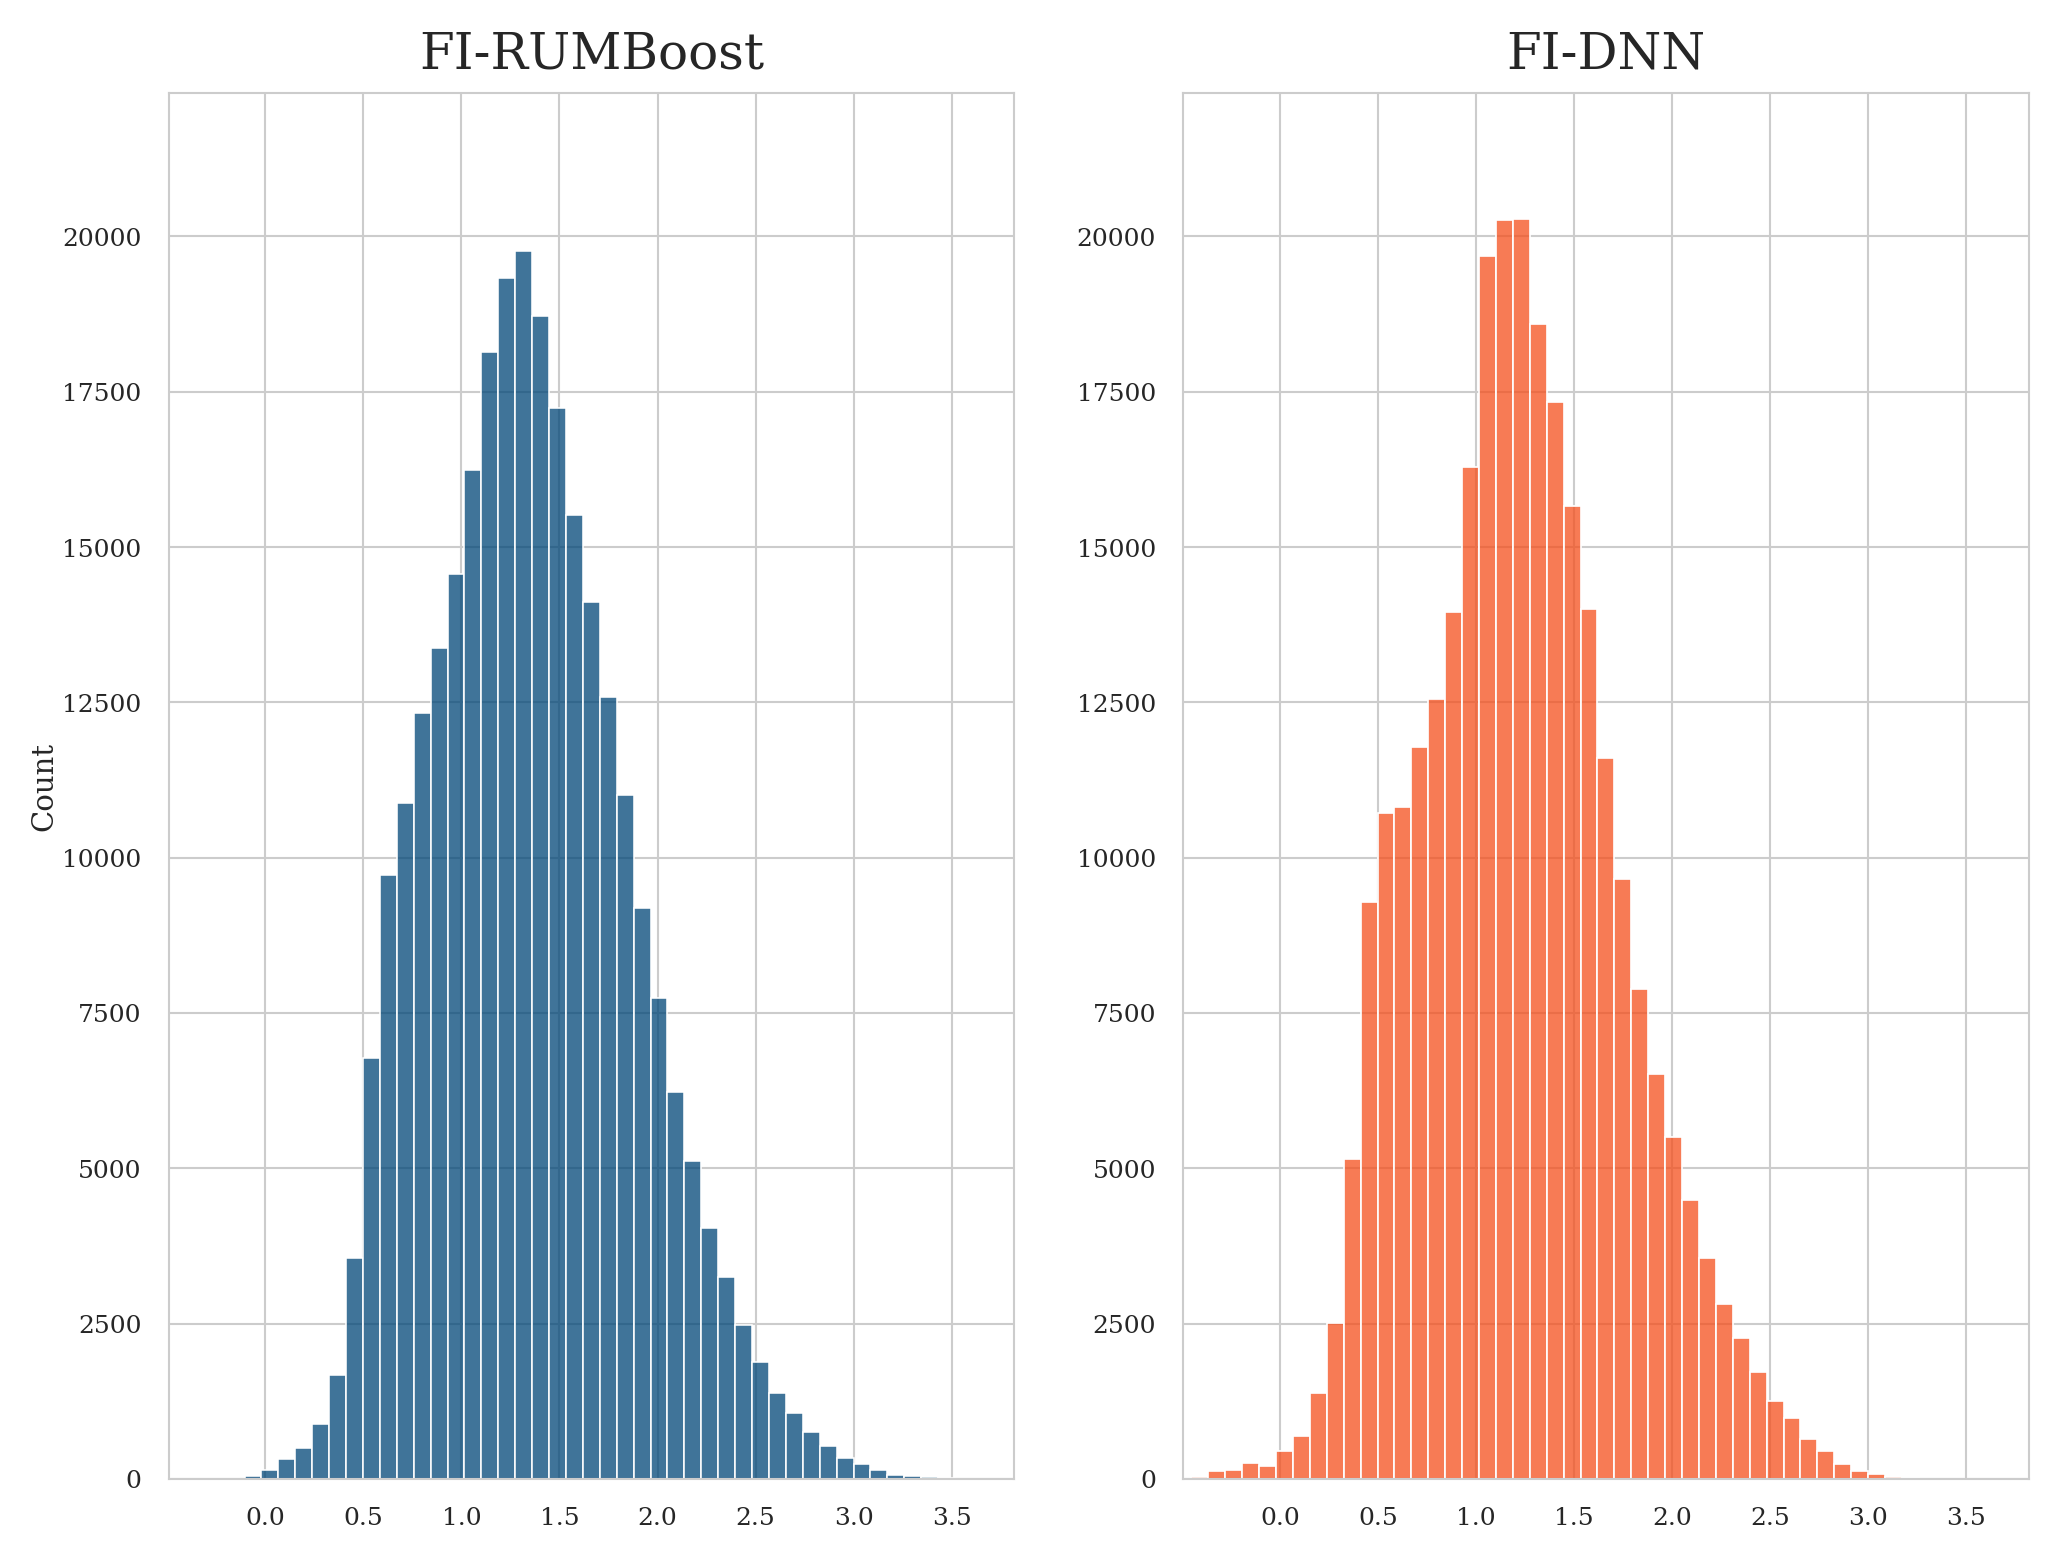
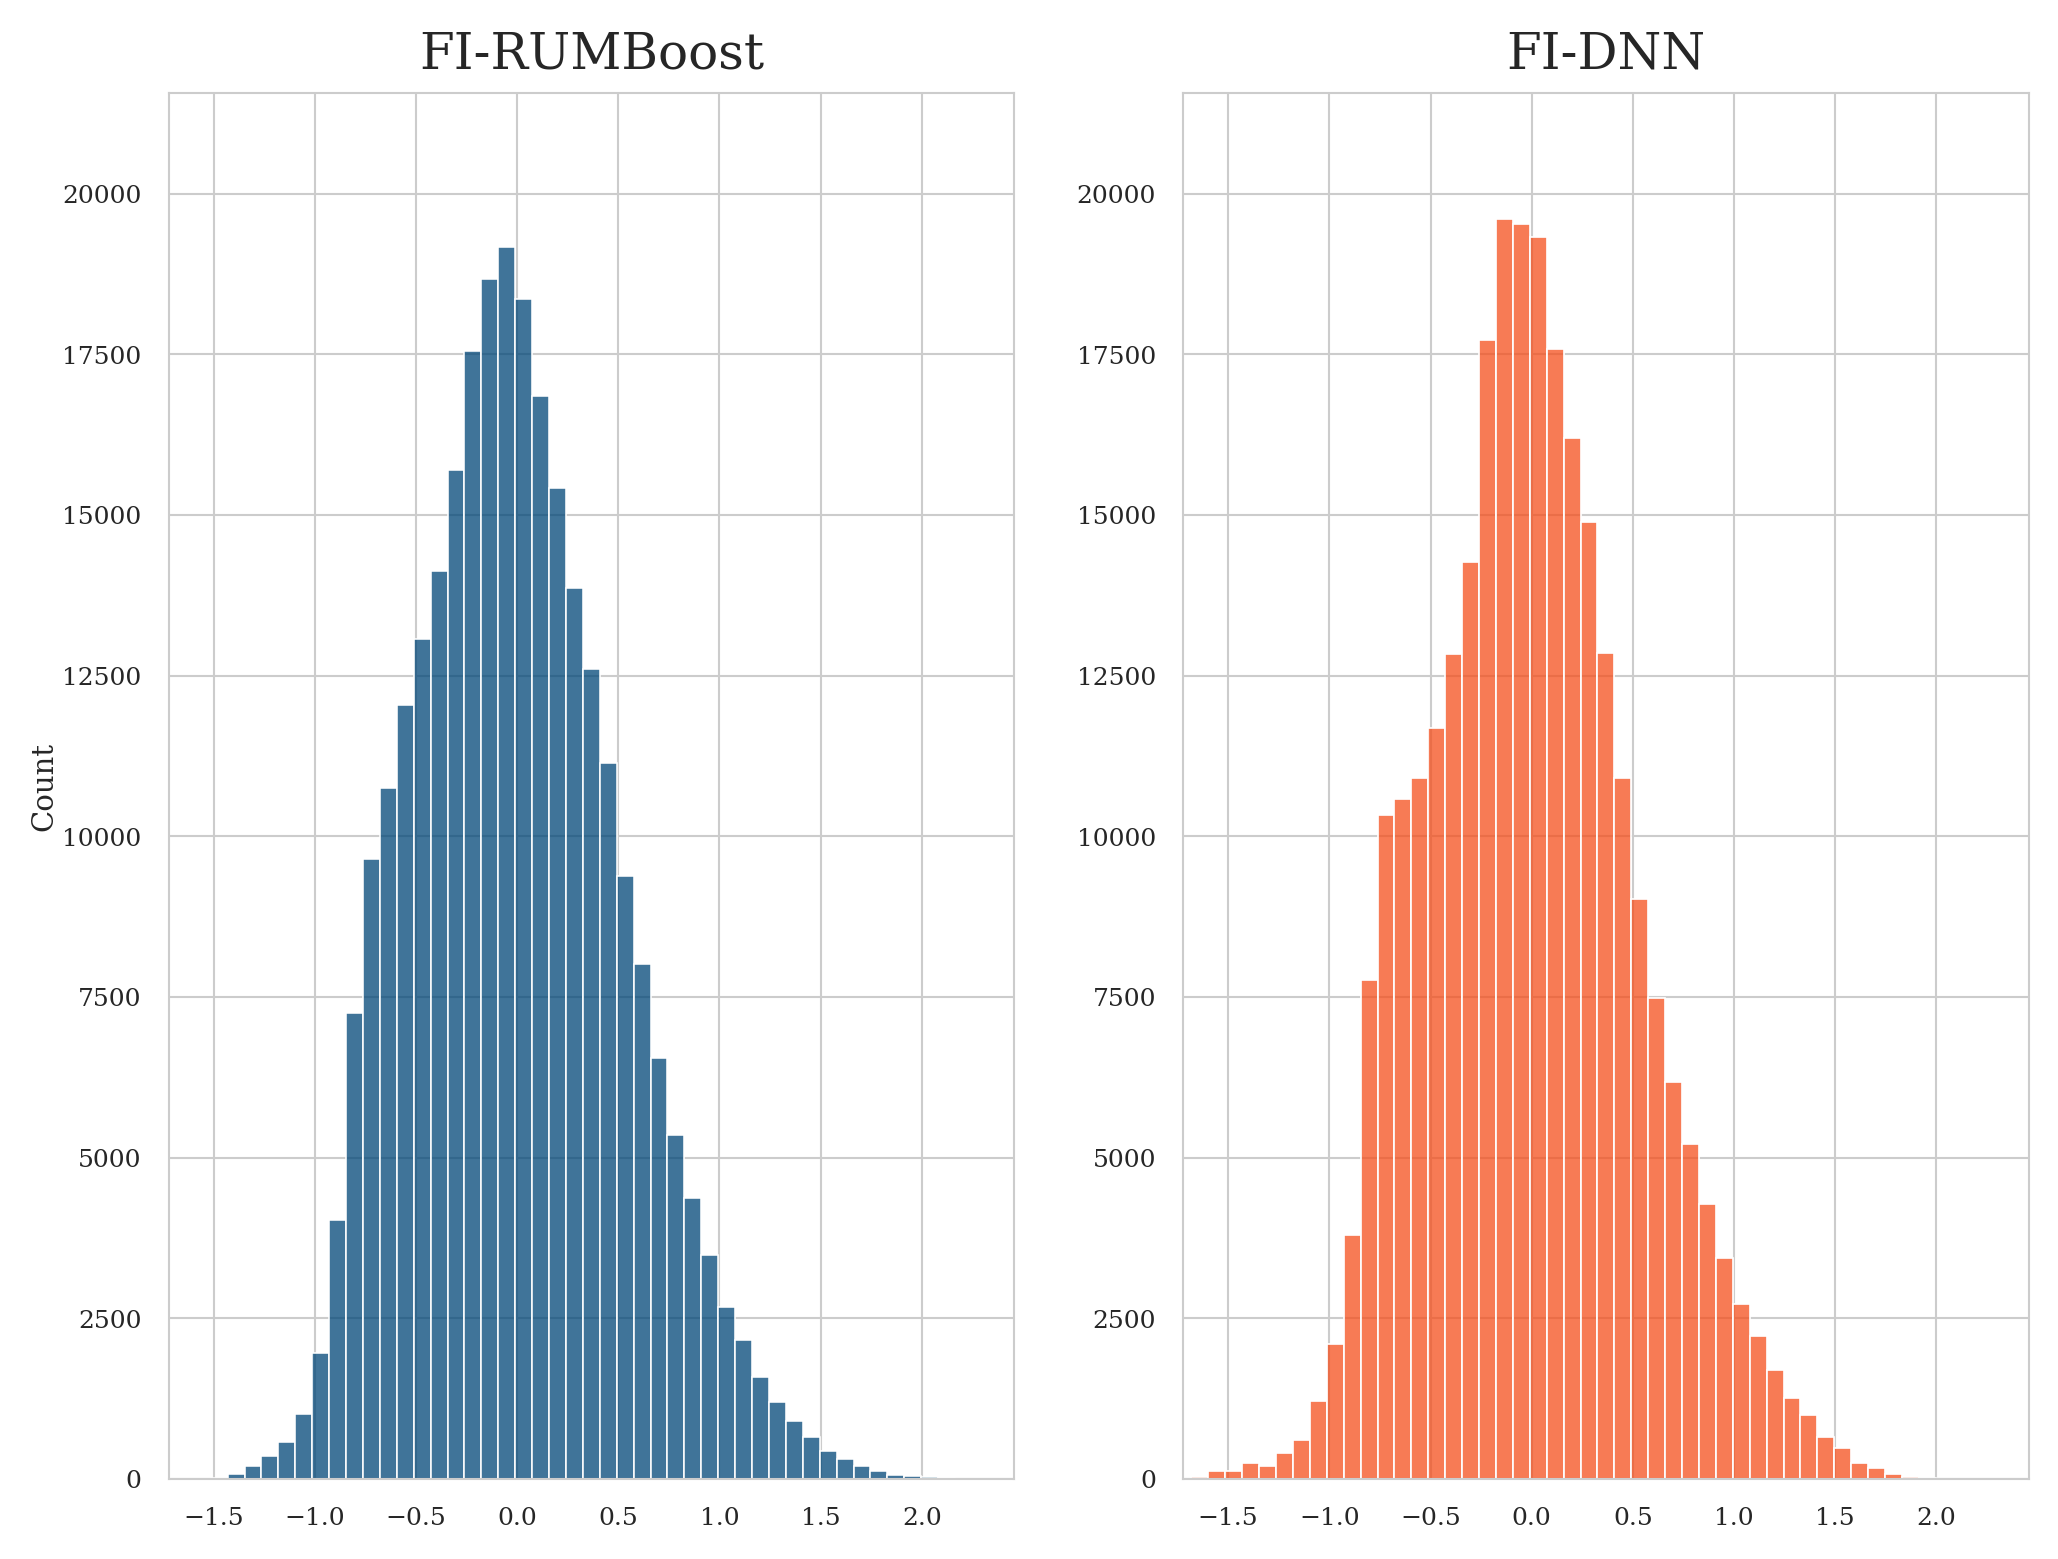
itnercept plots with zero-mean

diff --git a/src/plotter.py b/src/plotter.py
@@ -369,7 +369,7 @@ def plot_ind_spec_constant(
                 first_threshold = (
                     tastenet.model.ordinal_module.coral_bias[0].detach().cpu().numpy()
                 )
-                y_tastenet[:, -1] = y_tastenet[:, -1] + first_threshold
+                y_tastenet[:, -1] = y_tastenet[:, -1] - y_tastenet[:,-1].mean(axis=0)
 
     colors = ["#004577", "#f54f1c","#41def7", "#ff9500"]
 
@@ -399,7 +399,7 @@ def plot_ind_spec_constant(
                 and j >= num_plots - num_classes
             ):
                 first_threshold = rumboost.model.thresholds[0]
-                y_rumboost = y_rumboost - first_threshold
+                y_rumboost = y_rumboost - y_rumboost.mean(axis=0)
             min_val = y_rumboost.min()
             max_val = y_rumboost.max()
         if "TasteNet" in all_models:
@@ -520,9 +520,297 @@ def plot_ind_spec_constant(
         # plt.show()
 
 
+def additional_plots_for(
+    alt_spec_features: List = alt_spec_features,
+    all_models: Dict = all_models,
+    path_to_data: str = PATH_TO_DATA,
+    path_to_data_train: str = PATH_TO_DATA_TRAIN,
+    save_fig: bool = False,
+    feature_to_highlight: str = None,
+    functional_params: bool = True,
+    functional_intercept: bool = True,
+    dataset: str = "SwissMetro",
+):
+    """
+    Plot the individual-specific constant for the models.
+    The model needs to be trained with functional parameters or functional intercept.
+
+    Parameters
+    ----------
+    alt_spec_features : List
+        List of alternative-specific features. They must be in the same order as for the training.
+    all_models : Dict
+        Dictionary of all models.
+    path_to_data : str
+        Path to the data folder.
+    path_to_data_train : str
+        Path to the training data folder.
+    save_fig : bool
+        Whether to save the figure or not.
+    feature_to_highlight : str
+        Feature to highlight in the plot. If None, no feature is highlighted.
+    functional_params : bool
+        If the model is trained with functional parameters.
+    functional_intercept : bool
+        If the model is trained with functional intercept.
+    dataset : str
+        Dataset to use. Default is "SwissMetro".
+    """
+
+    # Plot the features
+    tex_fonts = {
+        # Use LaTeX to write all text
+        # "text.usetex": True,
+        # "font.family": "serif",
+        # "font.serif": "Computer Modern Roman",
+        # Use 14pt font in plots, to match 10pt font in document
+        "axes.labelsize": 7,
+        "axes.linewidth": 0.5,
+        "axes.labelpad": 1,
+        "font.size": 7,
+        # Make the legend/label fonts a little smaller
+        "legend.fontsize": 6,
+        "legend.fancybox": False,
+        "legend.edgecolor": "inherit",
+        "legend.borderaxespad": 0.4,
+        "legend.borderpad": 0.4,
+        "xtick.labelsize": 6,
+        "ytick.labelsize": 6,
+        "xtick.major.pad": 0.5,
+        "ytick.major.pad": 0.5,
+        "grid.linewidth": 0.5,
+        "lines.linewidth": 0.8,
+    }
+    sns.set_theme(font_scale=1, rc=tex_fonts)
+    # sns.set_context(tex_fonts)
+    sns.set_style("whitegrid")
+    plt.rcParams.update(
+        {
+            # "text.usetex": True,
+            "font.family": "serif",
+            # "font.sans-serif": "Computer Modern Roman",
+        }
+    )
+
+    if dataset == "SwissMetro":
+        df = pkl_to_df(path_to_data)
+        df_train = pkl_to_df(path_to_data_train)
+
+        socio_demo_chars = [
+            col
+            for col in df.columns
+            if col not in alt_spec_features and col not in ["CHOICE"]
+        ]
+    elif dataset == "LPMC":
+        df, _, _ = load_preprocess_LPMC(path_to_data)
+        df_train = df
+        socio_demo_chars = [
+            col
+            for col in df.columns
+            if col not in alt_spec_features and col not in ["choice", "household_id"]
+        ]
+    else:
+        df = pd.read_csv(path_to_data)
+        df_train = pd.read_csv(path_to_data_train)
+
+        socio_demo_chars = [
+            col
+            for col in df.columns
+            if col not in alt_spec_features
+            and col not in ["mergeid", "hhid", "coupleid", "depression_scale"]
+        ]
+
+    scaler = MinMaxScaler()
+    df_train[socio_demo_chars] = scaler.fit_transform(df_train[socio_demo_chars])
+    df[socio_demo_chars] = scaler.transform(df[socio_demo_chars])
+
+    num_classes = 1 if dataset == "easySHARE" else 3 if dataset == "SwissMetro" else 4
+
+    num_plots = (
+        functional_params * len(alt_spec_features) + functional_intercept * num_classes
+    )
+    if num_plots == 0:
+        raise ValueError(
+            "The model needs to be trained with functional parameters or functional intercept."
+        )
+    # Load the models
+    for model in all_models.keys():
+        if model == "RUMBoost":
+            model_path = f"results/{dataset}/{model}/model_fi{functional_intercept}_fp{functional_params}.json"
+            rumboost = all_models[model]()
+            rumboost.load_model(model_path)
+            rumboost_predictor = rumboost.model.boosters[-num_plots:]
+
+        elif model == "TasteNet":
+            model_path = f"results/{dataset}/{model}/model_fi{functional_intercept}_fp{functional_params}.pth"
+            tastenet = all_models[model]()
+            tastenet.load_model(path=model_path)
+            tastenet_predictor = tastenet.model.params_module
+            # already computing the functional values as they are outputted all at once
+            sdc_tensor = (
+                torch.from_numpy(df[socio_demo_chars].values)
+                .to(torch.device("cuda"))
+                .to(torch.float32)
+            )
+            y_tastenet = tastenet_predictor(sdc_tensor).detach().cpu().numpy().squeeze()
+            if not functional_params:
+                y_tastenet = y_tastenet.reshape(-1, num_classes)
+            if dataset == "easySHARE" and functional_intercept:
+                first_threshold = (
+                    tastenet.model.ordinal_module.coral_bias[0].detach().cpu().numpy()
+                )
+                y_tastenet[:, -1] = y_tastenet[:, -1] - y_tastenet[:,-1].mean(axis=0)
+
+    colors = ["#004577", "#f54f1c","#41def7", "#ff9500"]
+
+    for j in range(num_plots):
+        fig, axes = plt.subplots(1, 2, figsize=(8, 6), dpi=300)
+        if functional_intercept:
+            if j < num_plots - num_classes:
+                x_max = df[[alt_spec_features[j]]].max().values
+            else:
+                x_max = 1
+        else:
+            x_max = df[[alt_spec_features[j]]].max().values
+        if "RUMBoost" in all_models:
+            y_rumboost = rumboost_predictor[j].predict(df[socio_demo_chars]) / x_max
+            if dataset == "SwissMetro" and functional_intercept:
+                if j != 6 and j < num_plots - num_classes:
+                    y_rumboost = np.minimum(y_rumboost, 0)
+            elif dataset == "SwissMetro" and j != 6:
+                y_rumboost = np.minimum(y_rumboost, 0)
+
+            if dataset == "LPMC" and functional_params and j in lpmc_monotonic_constraints:
+                y_rumboost = np.minimum(y_rumboost, 0)
+
+            if (
+                dataset == "easySHARE"
+                and functional_intercept
+                and j >= num_plots - num_classes
+            ):
+                first_threshold = rumboost.model.thresholds[0]
+                y_rumboost = y_rumboost - y_rumboost.mean(axis=0)
+            min_val = y_rumboost.min()
+            max_val = y_rumboost.max()
+        if "TasteNet" in all_models:
+            y_tastenet[:, j] = y_tastenet[:, j] / x_max
+            if dataset == "SwissMetro" and functional_intercept: 
+                if j != 6 and j < num_plots - num_classes:
+                    y_tastenet[:, j] = np.minimum(y_tastenet[:, j], 0)
+            elif dataset == "SwissMetro" and j != 6:
+                y_tastenet[:, j] = np.minimum(y_tastenet[:, j], 0)
+
+            if dataset == "LPMC" and functional_params and j in lpmc_monotonic_constraints:
+                y_tastenet[:, j] = np.minimum(y_tastenet[:, j], 0)
+
+            min_val = min(min_val, y_tastenet[:, j].min())
+            max_val = max(max_val, y_tastenet[:, j].max())
+
+        if min_val == max_val:
+            min_val = min_val - 0.05
+            max_val = max_val + 0.05
+
+        bin_edges = np.linspace(min_val, max_val, 50)
+
+        max_count = 0
+        for model in all_models.keys():
+            if model == "RUMBoost":
+                counts, _ = np.histogram(y_rumboost, bins=bin_edges)
+            elif model == "TasteNet":
+                counts, _ = np.histogram(y_tastenet[:, j], bins=bin_edges)
+            max_count = max(max_count, counts.max())
+
+        for i, (model, ax) in enumerate(zip(all_models.keys(), axes.flatten())):
+            if feature_to_highlight:
+                df[feature_to_highlight] = df[feature_to_highlight].astype("category")
+                df[feature_to_highlight] = df[feature_to_highlight].cat.codes
+                hue = df[feature_to_highlight]
+            else:
+                hue = None
+            if model == "RUMBoost":
+                sns.histplot(
+                    y_rumboost,
+                    ax=ax,
+                    bins=bin_edges,
+                    color=colors[i],
+                    hue=hue,
+                    # multiple="stack",
+                )
+            elif model == "TasteNet":
+                sns.histplot(
+                    y_tastenet[:, j],
+                    ax=ax,
+                    bins=bin_edges,
+                    color=colors[i],
+                    hue=hue,
+                    # multiple="stack",
+                )
+
+            if model == "RUMBoost":
+                if functional_params and functional_intercept:
+                    title = "FIS-GBDT"
+                elif functional_params:
+                    title = "FS-GBDT"
+                elif functional_intercept:
+                    title = "FI-RUMBoost"
+            elif model == "TasteNet":
+                if functional_params and functional_intercept:
+                    title = "FIS-DNN"
+                elif functional_params:
+                    title = "FS-DNN"
+                elif functional_intercept:
+                    title = "FI-DNN"
+
+            # if functional_params and j < num_plots - num_classes:
+            #     fig_title = f"{alt_spec_features[j]}"
+            # else:
+            #     fig_title = "Intercept"
+            ax.set_title(title)
+            # ax.set_xlabel("Functional values")
+            if i % 2 == 0:
+                ax.set_ylabel("Count")
+                # plt.title(fig_title, fontsize=8)
+            else:
+                ax.set_ylabel("")
+
+            xlim = (
+                min_val - (max_val - min_val) * 0.01,
+                max_val + (max_val - min_val) * 0.01,
+            )
+            ylim = (0, max_count * 1.1)
+
+            plt.setp(axes, xlim=xlim, ylim=ylim)
+
+        if save_fig:
+            if not feature_to_highlight:
+                feature_to_highlight = ""
+            if dataset == "LPMC" and functional_params and j < len(alt_spec_features) and alt_spec_features[j] in feature_duplicated:
+                class_number = 0 if j < 4 else 1 if j < 8 else 2 if j < 18 else 3
+            else:
+                class_number = ""
+            if (
+                functional_params
+                and functional_intercept
+                and j < num_plots - num_classes
+            ):
+                save_path = f"results/{dataset}/figures/ind_spec_const_{alt_spec_features[j]}{class_number}_fi{functional_intercept}_fp{functional_params}_{feature_to_highlight}.png"
+            elif (
+                functional_params
+                and functional_intercept
+                and j >= num_plots - num_classes
+            ):
+                save_path = f"results/{dataset}/figures/ind_spec_const_intercept_{j - len(alt_spec_features)}_fiTrue_fp{functional_params}_{feature_to_highlight}.png"
+            elif functional_params and not functional_intercept:
+                save_path = f"results/{dataset}/figures/ind_spec_const_{alt_spec_features[j]}{class_number}_fi{functional_intercept}_fp{functional_params}_{feature_to_highlight}.png"
+            else:
+                save_path = f"results/{dataset}/figures/ind_spec_const_intercept_{j}_fiTrue_fp{functional_params}_{feature_to_highlight}.png"
+            os.makedirs(os.path.dirname(save_path), exist_ok=True)
+            plt.savefig(save_path, dpi=300, bbox_inches="tight")
+
+
 if __name__ == "__main__":
 
-    for dataset in ["LPMC", "SwissMetro", "easySHARE"]: #, "LPMC", "SwissMetro", "easySHARE", 
+    for dataset in ["easySHARE"]: #, "LPMC", "SwissMetro", "easySHARE", 
         all_alt_spec_features = []
         for k, v in alt_spec_features[dataset].items():
             all_alt_spec_features.extend(v)
